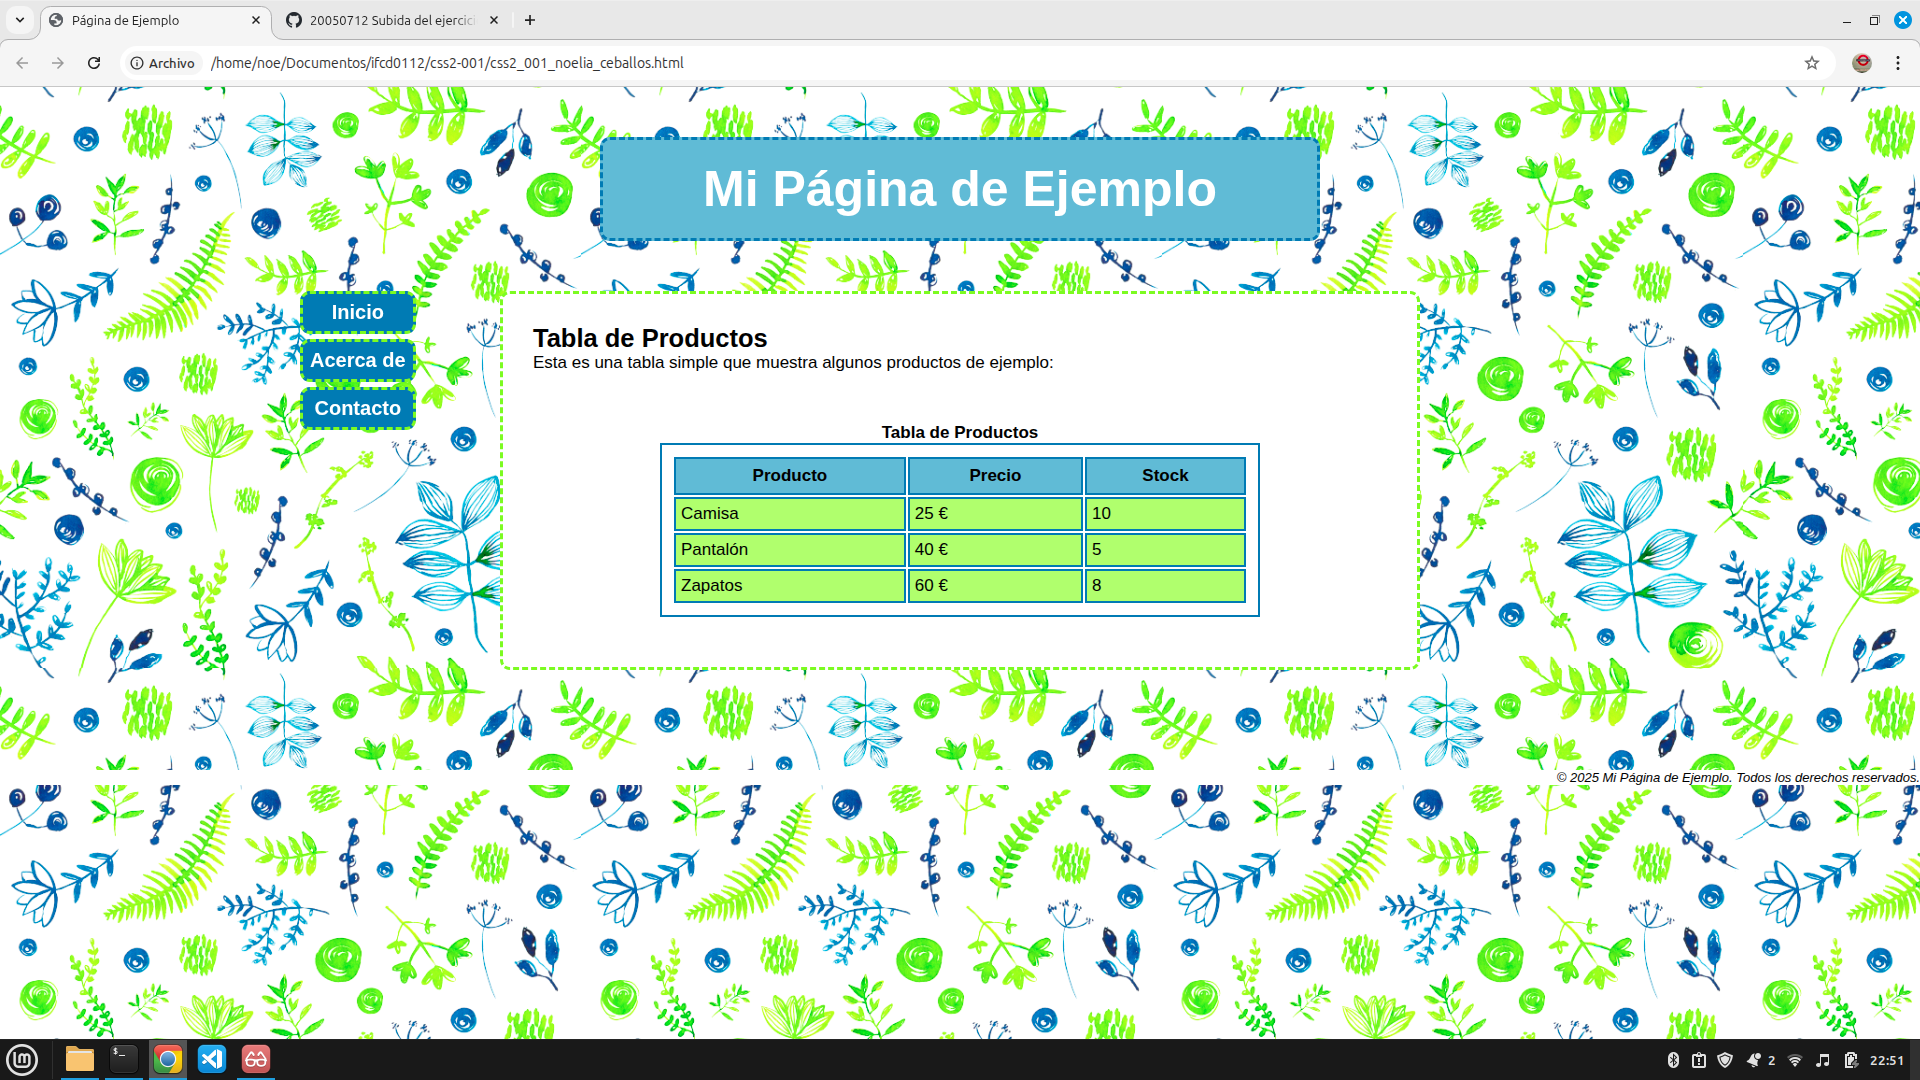
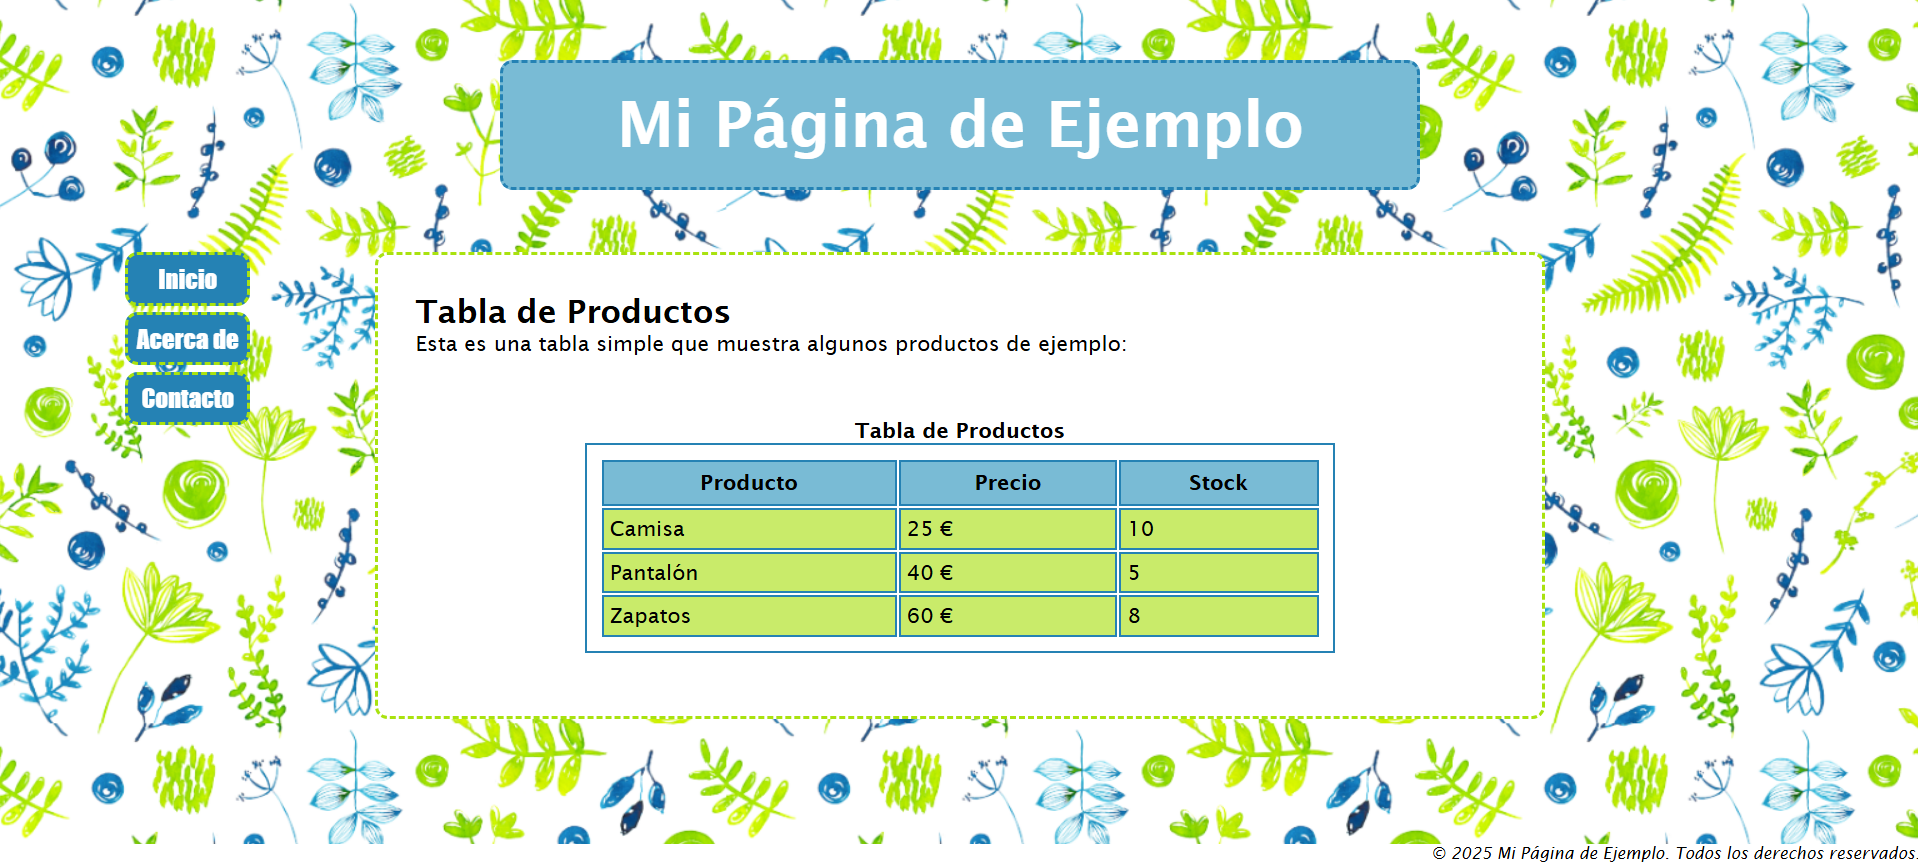
Ejercicio CSS2-001 Noelia Ceballos

diff --git a/MF0223_3/ejercicios/css2-001/entregas/noelia-ceballos/styles-css2.css b/MF0223_3/ejercicios/css2-001/entregas/noelia-ceballos/styles-css2.css
@@ -23,8 +23,8 @@ header {
     text-align: center;
     margin-top: 50px;
     margin-bottom: 50px;
-    margin-left: 600px;
-    margin-right: 600px;
+    margin-left: 400px;
+    margin-right: 400px;
     padding: 20px;
     border-radius: 10px;
 }
@@ -36,7 +36,6 @@ nav ul {
     position: fixed;
     font-size: 20px;
     font-family: Impact, Haettenschweiler, 'Arial Narrow Bold', sans-serif;
-    font-weight: bold;
 }
 
 /* Selectores descendientes directos */
@@ -44,7 +43,7 @@ nav ul {
 nav ul li {
     background-color: #2582b4;
     border: 3px dashed #a9e20f;
-    margin-left: 300px;
+    margin-left: 100px;
     margin-bottom: 5px;
     text-align: center;
     padding: 7px;
@@ -60,7 +59,8 @@ nav a {
 
 /* Le he puesto una transición a la barra de navegación para que los colores cambien de forma más gradual cuando el ratón esté sobre ella */
 
-nav ul li:hover {color:#2582b4;
+nav ul li:hover {
+    color: #2582b4;
     background-color: #c9eb6a;
     border: 3px dashed #2582b4;
     transition-property: background-color, border;
@@ -79,9 +79,8 @@ nav a:hover {
 /* Main */
 
 main {
-    position: relative;
-    margin-left: 500px;
-    margin-right: 500px;
+    margin-left: 300px;
+    margin-right: 300px;
     margin-bottom: 100px;
     padding: 30px;
     background-color: #ffffff;
@@ -101,16 +100,20 @@ table {
     padding: 10px;
 }
 
-table caption {font-weight: bold;}
+table caption {
+    font-weight: bold;
+}
 
 
 /* Cabecera de la tabla de color diferenciado */
 
-thead th {border: 2px solid #2582b4;
+thead th {
+    border: 2px solid #2582b4;
     background-color: #79bbd5;
     padding: 7px;
-text-align: center;
-font-weight: bold;}
+    text-align: center;
+    font-weight: bold;
+}
 
 td {
     border: 2px solid #2582b4;
